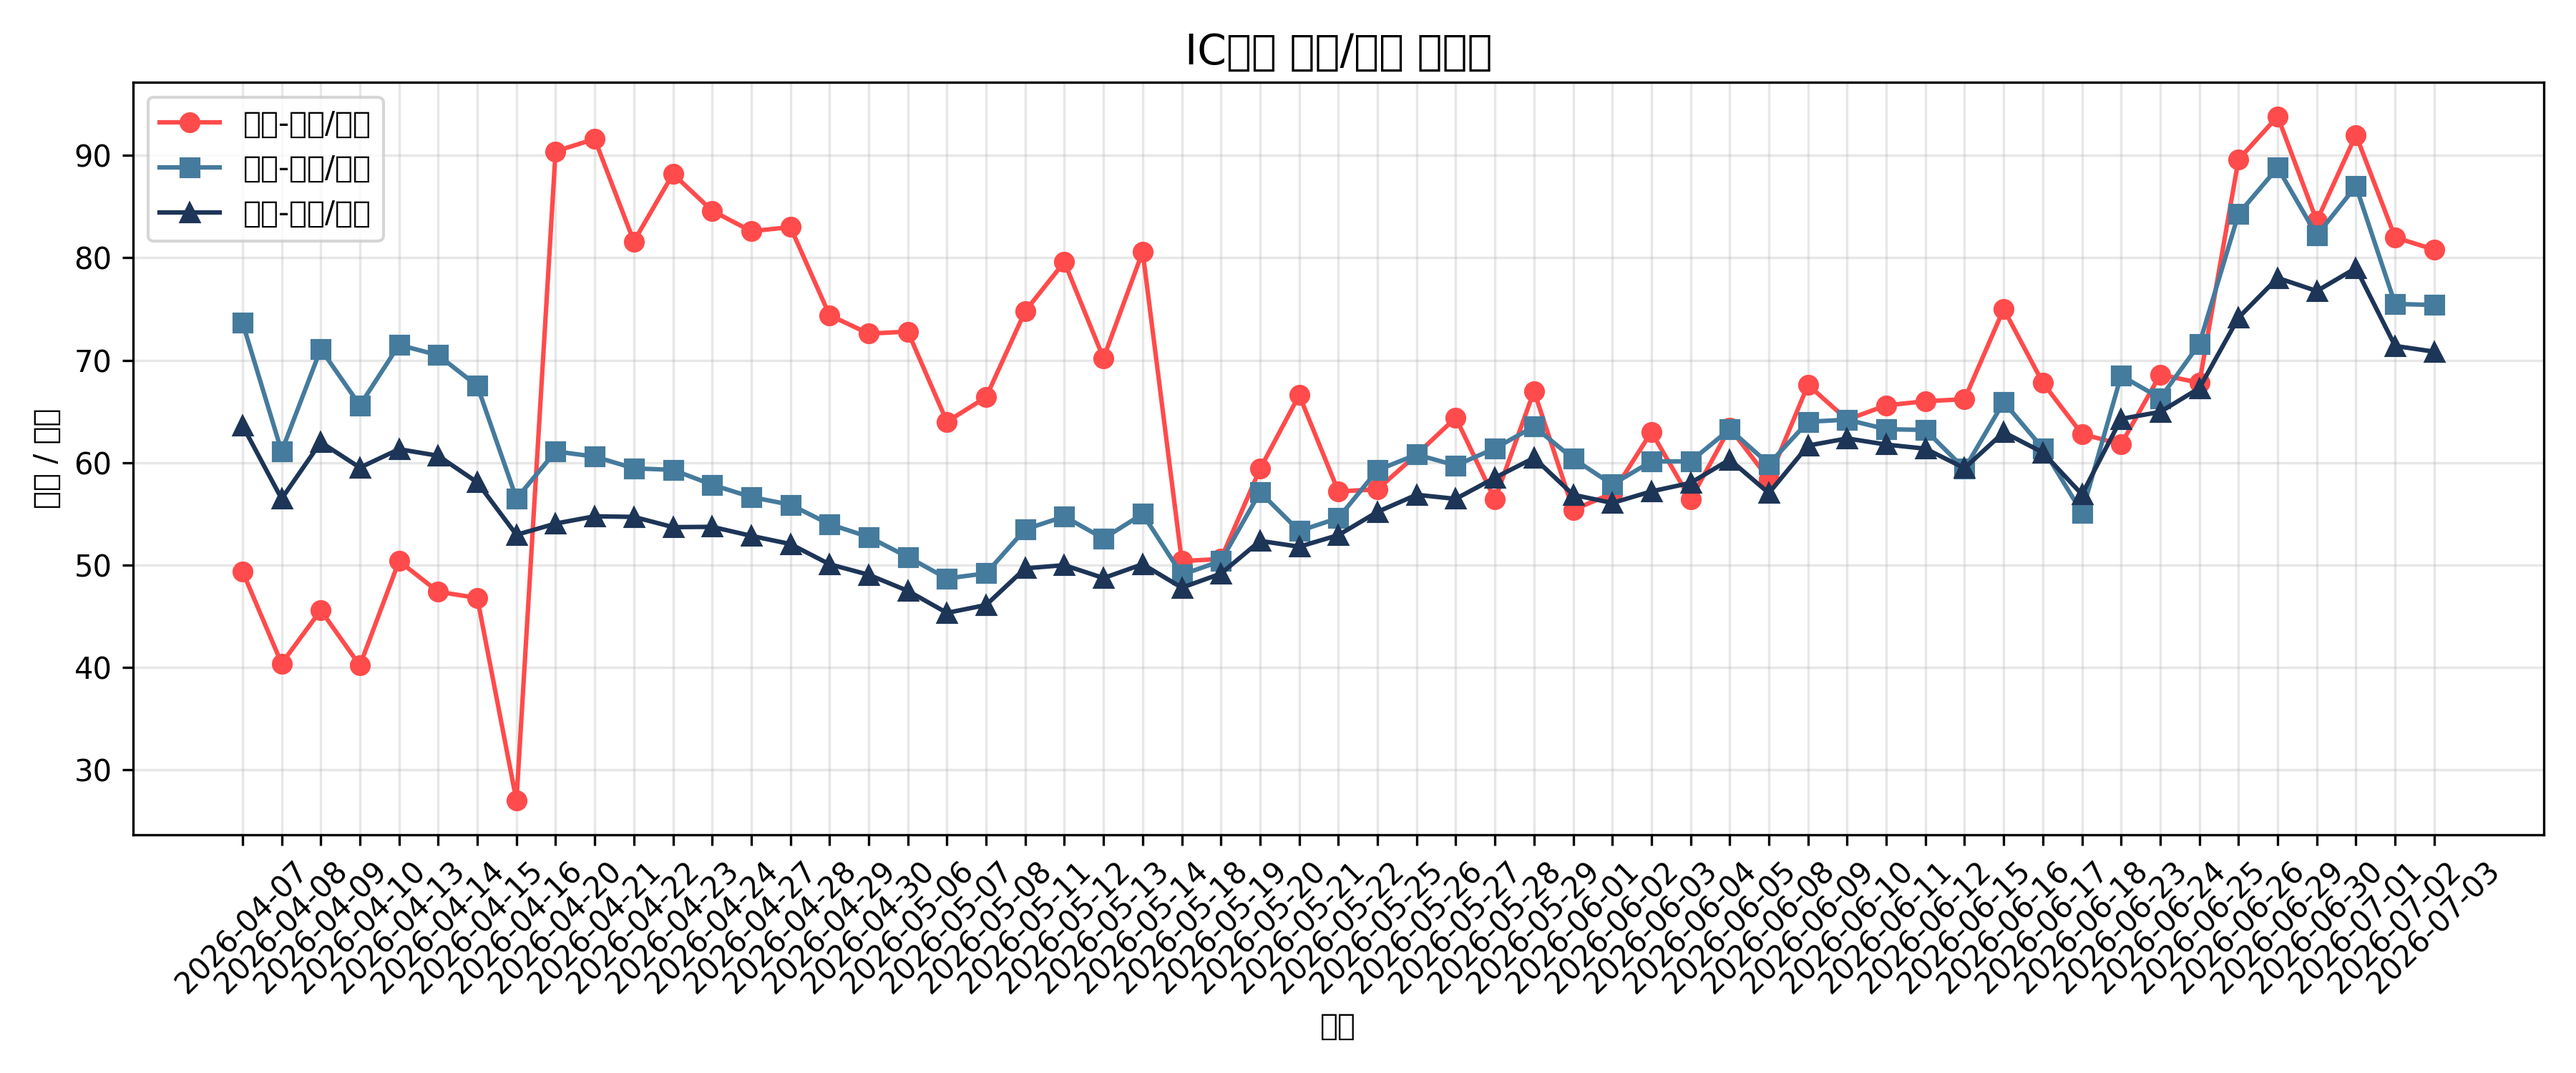
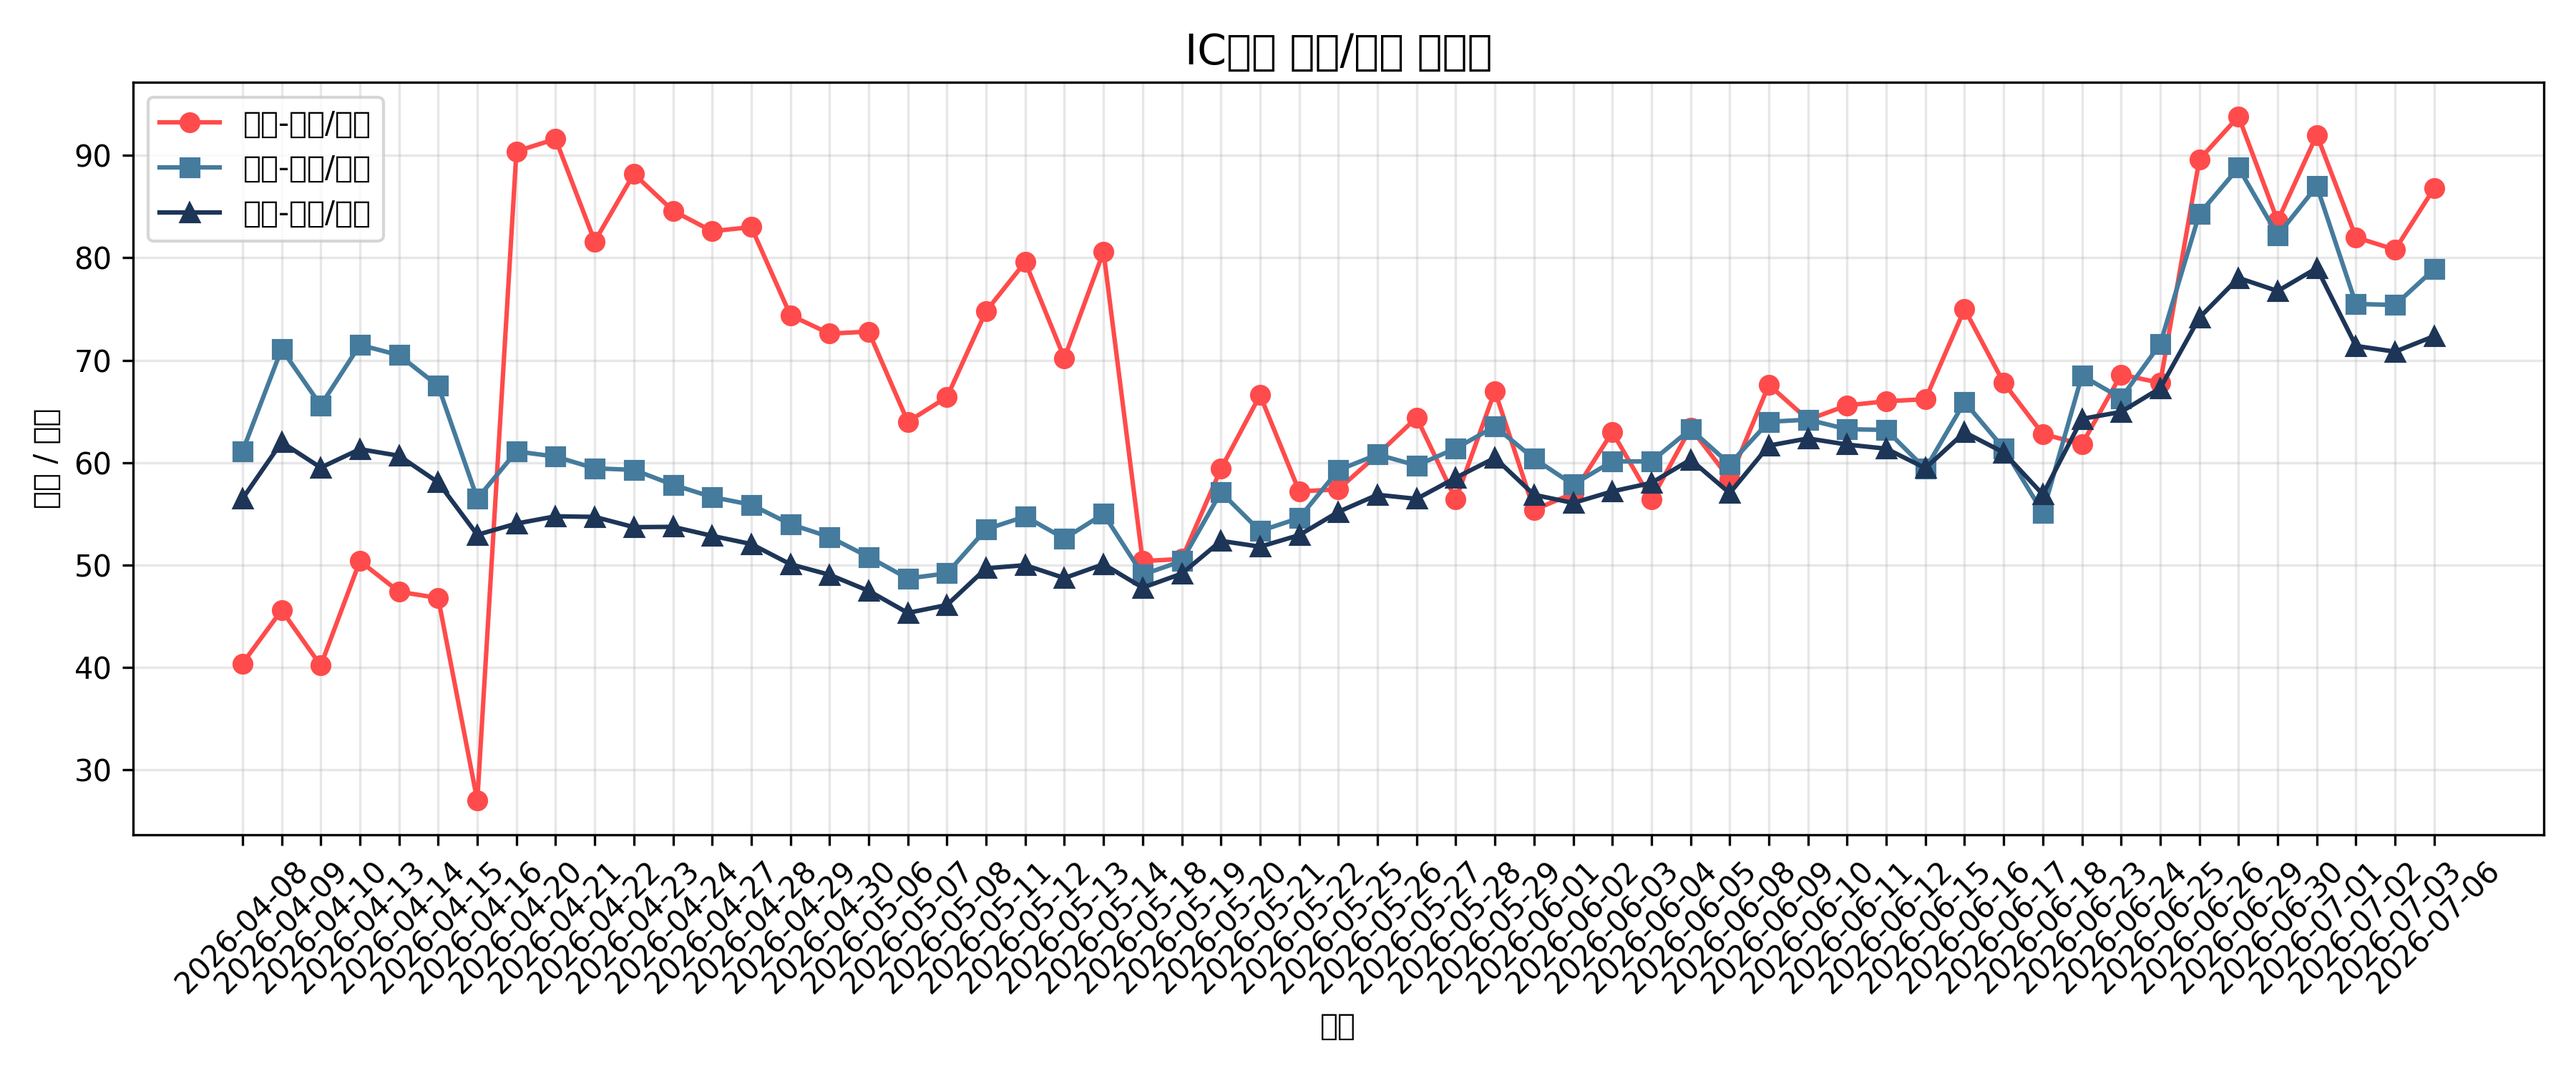
deploy: 4d1bb30b7b0bf8623cc214497fc979b4192c654b

diff --git a/index.html b/index.html
@@ -84,19 +84,19 @@
 <body>
     <div class="container">
         <h1>IC期货基差监控</h1>
-        <div class="last-updated">最后更新：2026-07-03 19:17:29</div>
+        <div class="last-updated">最后更新：2026-07-06 20:32:41</div>
         
         <div class="stats">
             <div class="stat-card">
-                <div class="stat-value">80.8</div>
+                <div class="stat-value">86.8</div>
                 <div class="stat-label">当月-下月/月差</div>
             </div>
             <div class="stat-card">
-                <div class="stat-value">75.4</div>
+                <div class="stat-value">78.9</div>
                 <div class="stat-label">当月-当季/月差</div>
             </div>
             <div class="stat-card">
-                <div class="stat-value">70.84</div>
+                <div class="stat-value">72.36</div>
                 <div class="stat-label">当月-下季/月差</div>
             </div>
         </div>
@@ -114,14 +114,6 @@
                 <th>当月-下月/月差</th>
                 <th>当月-当季/月差</th>
                 <th>当月-下季/月差</th>
-            </tr>
-
-            <tr>
-                <td>2026-06-25</td>
-                <td>IC2607</td>
-                <td>67.8</td>
-                <td>71.6</td>
-                <td>67.28</td>
             </tr>
 
             <tr>
@@ -170,6 +162,14 @@
                 <td>80.8</td>
                 <td>75.4</td>
                 <td>70.84</td>
+            </tr>
+
+            <tr>
+                <td>2026-07-06</td>
+                <td>IC2607</td>
+                <td>86.8</td>
+                <td>78.9</td>
+                <td>72.36</td>
             </tr>
 
         </table>
